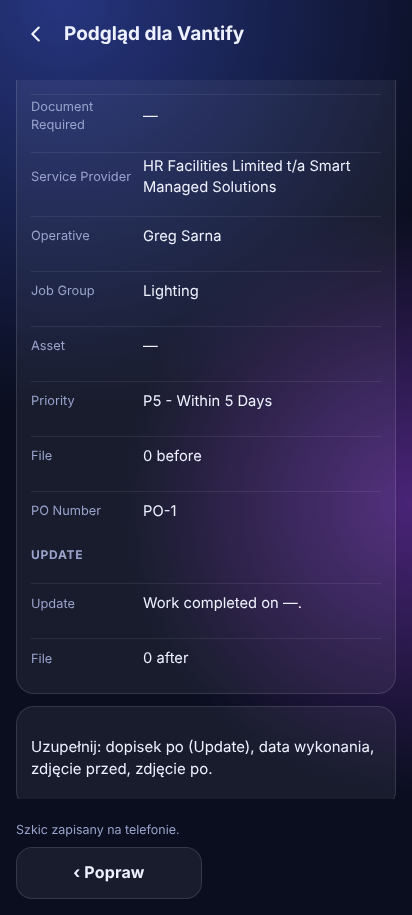
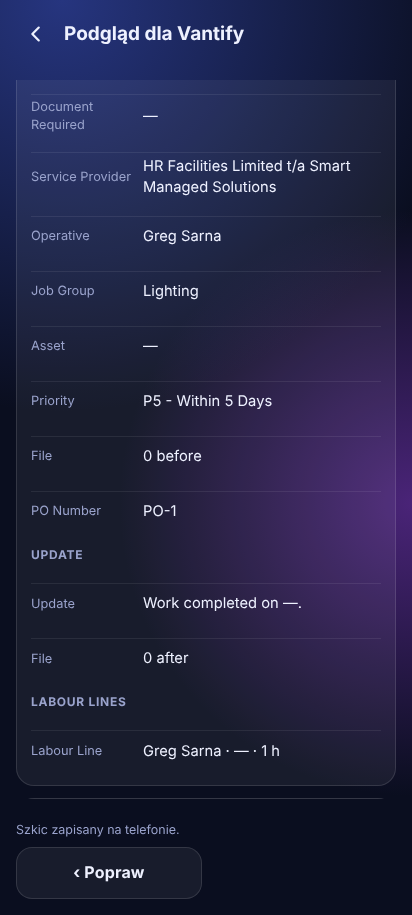
Zrobione → Vantify: czas pracy (Labour Lines), domyślnie i minimum 1 h
Claude-Session: https://claude.ai/code/session_01F3GNBi5oShkW5yXwNh8sS2

Changed region(s): [[0.0583, 0.7344, 0.9029, 0.8568]]

diff --git a/app/www/reactive.js b/app/www/reactive.js
@@ -10,7 +10,7 @@
   function cleanup(){urls.forEach(u=>URL.revokeObjectURL(u));urls=[];}
   function canLeave(){if(recBusy()||busy||writing){message(L('Zaczekaj na zapis lub zatrzymaj nagranie.','Wait for saving or stop the recording.'));return false;}if(error){message(L('Nie zapisano szkicu. Ponów zapis przed wyjściem.','Draft not saved. Save again before leaving.'));return false;}cleanup();return true;}
   async function run(fn){if(busy)return;busy=true;try{ensure();await chain.catch(()=>{});await fn();}catch(e){message(L('Nie wykonano: ','Not done: ')+(w.OESTBledy?w.OESTBledy.text(e):e.message));}finally{busy=false;}}
-  function collect(){if(!draft)return;if(!draft.reportEdited)draft.reportText='';/* tekst automatyczny zawsze od nowa, także gdy pole raportu jest zwinięte */document.querySelectorAll('#v-reactive [data-rx-field]').forEach(el=>{if(el.dataset.rxField==='reportText'&&!draft.reportEdited){draft.reportText='';return;}draft[el.dataset.rxField]=el.type==='checkbox'?el.checked:el.value;});document.querySelectorAll('#v-reactive [data-rx-vfield]').forEach(el=>{draft.vantify={...(draft.vantify||{}),[el.dataset.rxVfield]:el.value};});if(draft.title)draft.uiTitle='';}
+  function collect(){if(!draft)return;if(!draft.reportEdited)draft.reportText='';/* tekst automatyczny zawsze od nowa, także gdy pole raportu jest zwinięte */document.querySelectorAll('#v-reactive [data-rx-field]').forEach(el=>{if(el.dataset.rxField==='reportText'&&!draft.reportEdited){draft.reportText='';return;}draft[el.dataset.rxField]=el.type==='checkbox'?el.checked:el.value;});document.querySelectorAll('#v-reactive [data-rx-vfield]').forEach(el=>{draft.vantify={...(draft.vantify||{}),[el.dataset.rxVfield]:el.type==='number'?Number(el.value):el.value};});if(draft.title)draft.uiTitle='';}
   function persist(readFields=true){if(!draft)return Promise.resolve();if(readFields)collect();const snapshot=structuredClone(draft),owner=account;writing++;message(L('Zapis szkicu…','Saving draft…'));chain=chain.catch(()=>{}).then(async()=>{if(owner!==w.OESTSettings.get().owner)throw Error('ACCOUNT_CHANGED');const media=[...pendingMedia.values()];await repo.saveReactiveDraft(snapshot,media);media.forEach(m=>pendingMedia.delete(m.id));error=false;}).catch(e=>{error=true;message(L('Nie zapisano szkicu: ','Draft not saved: ')+(w.OESTBledy?w.OESTBledy.text(e):e.message));throw e;}).finally(()=>{writing--;if(!writing&&!error)message(L('Szkic zapisany na telefonie.','Draft saved on the phone.'));});chain.catch(()=>{});return chain;}
   /* stare nagrania (sprzed 09/11/2026) zostają z „Na tekst”; nowe notatki – moduly/notatki (pasek #rxNotes) */const voice=w.OESTVoice.create({maxMs:30000,onError:e=>message(e.message)}),recBusy=()=>voice.busy||!!w.OESTNotatki?.busy?.(),ntScope=()=>draft?'rx|'+(draft.draftId||draft.jobId):'';
   function statusChip(job){const status=C.status(job);return '<span class="chip" data-status="'+status+'">'+esc(C.uiLabel(status)+(job.reactive?.temporary?L(' · tymczasowa naprawa',' · temporary repair'):''))+'</span>';}
@@ -81,6 +81,7 @@
     return panel('<div class="label">'+L('Vantify — rubryki zlecenia','Vantify — job fields')+'</div>'+
       vfield(L('Nr zlecenia Vantify','Vantify job no.'),'jobNo',v.jobNo,L('wpisz, gdy Vantify nada numer','enter when Vantify gives the number'))+
       '<div class="rx-f"><label class="rx-fr"><span class="k">'+L('Data wykonania','Date completed')+'</span><input type="date" class="v" data-rx-field="doneDate" value="'+esc(draft.doneDate||'')+'"></label></div><div class="rx-chips">'+chip(L('Dziś','Today'),'v-today')+'</div>'+
+      '<label class="field"><span>'+L('Czas pracy (Labour Lines), godziny — min. 1','Time worked (Labour Lines), hours — min. 1')+'</span><input type="number" min="1" max="24" step="0.5" inputmode="decimal" data-rx-vfield="labourHours" value="'+esc(draft.vantify.labourHours??1)+'"></label>'+
       '<label class="field"><span>'+L('Dopisek po — co zrobiłeś (Update w Vantify)','Note after — what you did (Vantify update)')+'</span><textarea data-rx-field="afterNote" maxlength="4000" rows="3">'+esc(draft.afterNote||'')+'</textarea></label>'+
       '<p class="rx-sub">'+L('Summary = nazwa zadania, Description = opis (dopisek przed) — te same co w worksheet.','Summary = job name, Description = description (note before) — the same as in the worksheet.')+'</p>'+
       vlist('location','Location',ls.locations)+vlist('jobGroup','Job Group *',ls.jobGroups)+vlist('priority','Priority *',ls.priorities)+

diff --git a/app/www/reactive-vantify.js b/app/www/reactive-vantify.js
@@ -26,7 +26,7 @@
   const LIMITS = { jobNo: 20, location: 300, jobGroup: 120, priority: 120, asset: 300, po: 60 };
 
   function defaults() {
-    return { jobNo: '', location: '', jobGroup: '', priority: PRIORITY, asset: '', po: '', statutory: false, documentRequired: '', serviceProvider: SERVICE_PROVIDER, siteContactSelf: true, relationship: RELATIONSHIP, siteContactAvailable: true };
+    return { jobNo: '', labourHours: 1, location: '', jobGroup: '', priority: PRIORITY, asset: '', po: '', statutory: false, documentRequired: '', serviceProvider: SERVICE_PROVIDER, siteContactSelf: true, relationship: RELATIONSHIP, siteContactAvailable: true };
   }
   function lists(store) {
     try {
@@ -60,6 +60,8 @@
     const v = d?.vantify;
     if (!v || typeof v !== 'object') throw Error('VANTIFY_FIELDS');
     for (const k of KEYS) if (String(v[k] ?? '').length > LIMITS[k]) throw Error('VANTIFY_FIELDS');
+    // Labour Lines: czas pracy w godzinach, domyślnie i co najmniej 1 h (Grzegorz 13/11/2026), krok 0,5 h
+    { const h = Number(v.labourHours); if (!(h >= 1 && h <= 24) || h * 2 !== Math.round(h * 2)) throw Error('VANTIFY_LABOUR'); }
     if (d.doneDate && !dmy(d.doneDate)) throw Error('VANTIFY_FIELDS');
     if (String(d.afterNote || '').length > 4000) throw Error('VANTIFY_FIELDS');
     if (v.jobNo && !/^\d{1,20}$/.test(String(v.jobNo).trim())) throw Error('VANTIFY_JOB_NO');
@@ -87,6 +89,7 @@
       ['Job Details', 'PO Number', v.po],
       ['Update', 'Update', update(d)],
       ['Update', 'File', (d?.afterMediaIds || []).length + ' after'],
+      ['Labour Lines', 'Labour Line', (me || '—') + ' · ' + (dmy(d?.doneDate) || '—') + ' · ' + String(v.labourHours).replace('.', ',') + ' h'],
     ];
   }
   return { ymd, dmy, update, after, LOOKUP_KEY, SERVICE_PROVIDER, RELATIONSHIP, PRIORITY, KEYS, LIMITS, defaults, lists, summary, description, missing, validate, rubrics };

diff --git a/moduly/bledy/bledy.js b/moduly/bledy/bledy.js
@@ -98,6 +98,7 @@
     ENTRY_INVALID: ['Wpis jest niepełny.', 'The entry is incomplete.'],
     REACTIVE_FIELDS: ['Uzupełnij wymagane pola zadania.', 'Fill in the required task fields.'],
     VANTIFY_FIELDS: ['Rubryki Vantify są niepoprawne. Popraw je w części Vantify zadania.', 'The Vantify fields are not valid. Correct them in the Vantify part of the job.'],
+    VANTIFY_LABOUR: ['Czas pracy: od 1 do 24 godzin, co pół godziny.', 'Time worked: 1 to 24 hours, in half hours.'],
     VANTIFY_JOB_NO: ['Nr zlecenia Vantify to same cyfry, np. 3051375.', 'The Vantify job no. is digits only, e.g. 3051375.'],
     REACTIVE_STATUS: ['Nieprawidłowy status zadania.', 'Invalid task status.'],
     REACTIVE_TREE: ['Nieprawidłowy wybór z listy usterek.', 'Invalid fault selection.'],
